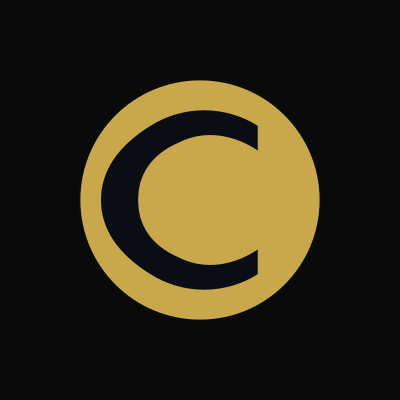
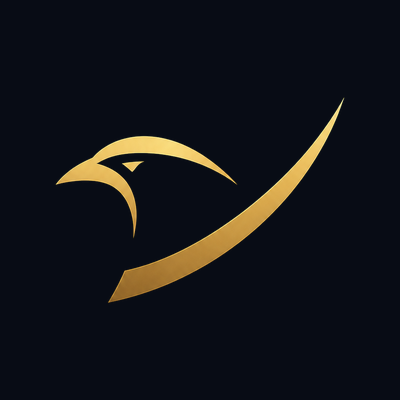
Dashboard: collapse Evening Brief by default; refresh OG card + pfp
GreetingBar
- The brief is a wall of text. Default to collapsed so the Today's
  Signal card below it can be the dashboard's focal point. User can
  still expand via the chevron, and the preference now persists as
  "0" (expanded) in localStorage. Old "1" (collapsed) keys still
  collapse correctly. Missing key now defaults to collapsed.

OG / social card
- Regenerated public/og-image.png (1200x630) with the new raven mark
  on the left half + tagline "The advisor watching over your
  portfolio." + features bullet + corvo.capital URL. Old card was a
  text-only wordmark with no logo and dated copy.
- Regenerated public/corvo-pfp.png (400x400) from the new raven on a
  dark navy fill so any external link referencing it (Twitter
  profile pic, etc.) flips to the new mark automatically.

Cleanup
- Deleted unreferenced public/ stragglers: image-1778541426026.jpg,
  og-image.svg (stale source for the old card), and 5 Next.js
  default templates (file.svg, globe.svg, next.svg, vercel.svg,
  window.svg). Zero callsites; verified via grep.

Changed region(s): [[0.12, 0.18, 0.87, 0.81]]

diff --git a/frontend/components/GreetingBar.tsx b/frontend/components/GreetingBar.tsx
@@ -126,9 +126,14 @@ export default function GreetingBar({ displayName, assets, portfolioValue, hideB
   const firstName = resolvedName.trim().split(" ")[0] || null;
   const dateStr = new Date().toLocaleDateString("en-US", { weekday: "long", month: "long", day: "numeric", year: "numeric" });
 
+  // Default to collapsed: the brief is a wall of text and the Today's Signal
+  // card below it should be the dashboard's main focal point. The user can
+  // expand the brief via the chevron, and their preference sticks via
+  // localStorage. Only an explicit "0" (user expanded) keeps it open across
+  // sessions; everything else defaults to collapsed.
   const [collapsed, setCollapsed] = useState(() => {
-    if (typeof window === "undefined") return false;
-    try { return localStorage.getItem("corvo_brief_collapsed") === "1"; } catch { return false; }
+    if (typeof window === "undefined") return true;
+    try { return localStorage.getItem("corvo_brief_collapsed") !== "0"; } catch { return true; }
   });
   const toggleCollapsed = () => setCollapsed(c => {
     const next = !c;
